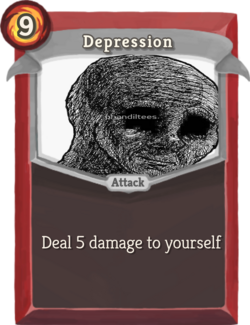
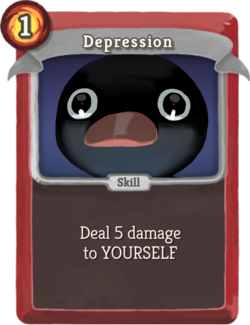
troche więcej bugfixów
- zagrane karty resetuja pozycje
- run_deck i deck
- end combat clearuje poprawie (można grać wiele walk jedna za drugą i nie powinno być problemów)
- 2 nowe card arty bo stare były nie dokładne

diff --git a/CardGame/GameFolder/playerFile.py b/CardGame/GameFolder/playerFile.py
@@ -6,7 +6,8 @@ import roomsFile
 class Player(characterFile.Character):
     def __init__(self, name, health, starting_deck):
         super().__init__(name, health)
-        self.deck = starting_deck
+        self.run_deck = starting_deck
+        self.deck = []
         self.hand = []
         self.discard = []
         self.mana = 3
@@ -30,9 +31,9 @@ class Player(characterFile.Character):
             print(f"{card.name}[{card.cost}]", end=" / ")
         print()
 
-    def add_card_do_deck(self, card):
+    def add_card_to_run_deck(self, card):
         # NOT USED CURRENTLY
-        self.deck.append(card)
+        self.run_deck.append(card)
 
     def shuffle_deck(self):
         print(f">>  {self.name} is shuffling the deck!")
@@ -42,49 +43,46 @@ class Player(characterFile.Character):
         for i in range(how_much):
             if not self.deck and not self.discard:
                 break
-            #               print(f">> CAN'T DRAW: BOTH DECK AND DISCARD ARE EMPTY")
 
             elif not self.deck and self.discard:
                 self.deck += self.discard
                 self.discard.clear()
                 self.shuffle_deck()
 
-            #            print(f">> {self.name} is drawing a card!")
             card_drawn = self.deck.pop(0)
             self.hand.append(card_drawn)
-
-    #        print(f"==============================================================================")
 
     def play_card(self, player, list_of_enemies, target, card):
         if len(self.hand) < 1:
             print(f">>  {self.name}'s hand is EMPTY!")
         else:
             print(f">>  {self.name} is playing a card:")
-#            for i in range(len(self.hand)):
-#                print(f"{i}) {self.hand[i].name}[{self.hand[i].cost}]")
 
             if card.cost <= self.mana:
                 self.mana -= card.cost
                 self.hand.remove(card)
                 card.action(player, list_of_enemies, target)
+                card.randomize_card_position()
                 self.discard.append(card)
             else:
                 print(f"Not enough mana to play {card.name}!")
 
-#            index_picked = index
-#            if self.hand[index_picked].cost <= self.mana:
-#                card_picked = self.hand[index_picked]
-#                print(f">>  Playing {card_picked.name} from hand!")
-#                self.mana -= card_picked.cost
-#                self.hand.pop(index_picked)
-#                card_picked.action(player, list_of_enemies)
-#                self.discard.append(card_picked)
-#            else:
-#                print(f">>  Not enough mana to play {card.name}!")
-
     def discard_card(self, card):
         self.hand.remove(card)
         self.discard.append(card)
+
+    def start_combat(self):
+        self.deck += self.run_deck
+        self.shuffle_deck()
+
+    def end_combat(self):
+        self.deck.clear()
+        self.hand.clear()
+        self.discard.clear()
+        self.strength = 0
+        self.dexterity = 0
+        self.fragility = 0
+        self.vulnerability = 0
 
     def start_turn(self):
         self.armor = 0
@@ -92,6 +90,7 @@ class Player(characterFile.Character):
         self.mana = 3
 
     def end_turn(self):
+        self.drag = None
         if self.fragility > 0:
             self.fragility -= 1
         if self.vulnerability > 0:

diff --git a/CardGame/GameFolder/cardsFile.py b/CardGame/GameFolder/cardsFile.py
@@ -23,13 +23,12 @@ class CardBase(pygame.sprite.Sprite):
         self.image = pygame.image.load("Cards/Steroids.png")
         self.width = self.image.get_width()
         self.height = self.image.get_height()
-        self.x = random.randint(0, 1366)
-        self.y = random.randint(528, 768)
         self.move_speed = 0
         self.move_x = self.move_speed
         self.move_y = self.move_speed
         self.rect = pygame.Rect((0, 0, self.width, self.height))
-        self.rect.center = (self.x, self.y)
+
+        self.randomize_card_position()
         # SHOP RELATED
         self.price_range = (0, 0)
         self.weight = 0
@@ -87,6 +86,11 @@ class CardBase(pygame.sprite.Sprite):
 
     def action(self, player, list_of_enemies, target):
         print(f"CardBase action executing!")
+
+    def randomize_card_position(self):
+        self.x = random.randint(0, 1366)
+        self.y = random.randint(528, 768)
+        self.rect.center = (self.x, self.y)
 
 
 # ======================= Card1 =======================

diff --git a/CardGame/GameFolder/roomsFile.py b/CardGame/GameFolder/roomsFile.py
@@ -160,7 +160,7 @@ class CombatEncounter(InGame):
 
         if self.state == 0:
             # COMBAT START
-            player.shuffle_deck()
+            player.start_combat()
             self.state = 1
 
         if self.state == 1:
@@ -188,7 +188,7 @@ class CombatEncounter(InGame):
             elif all(enemy.cur_health <= 0 for enemy in self.list_of_enemies):
                 print(f">> (((  WIN!  )))")
                 player.current_room = Menu(None)
-            #player.end_combat()
+                player.end_combat()
 
         if self.state == 3:
             # END TURN
